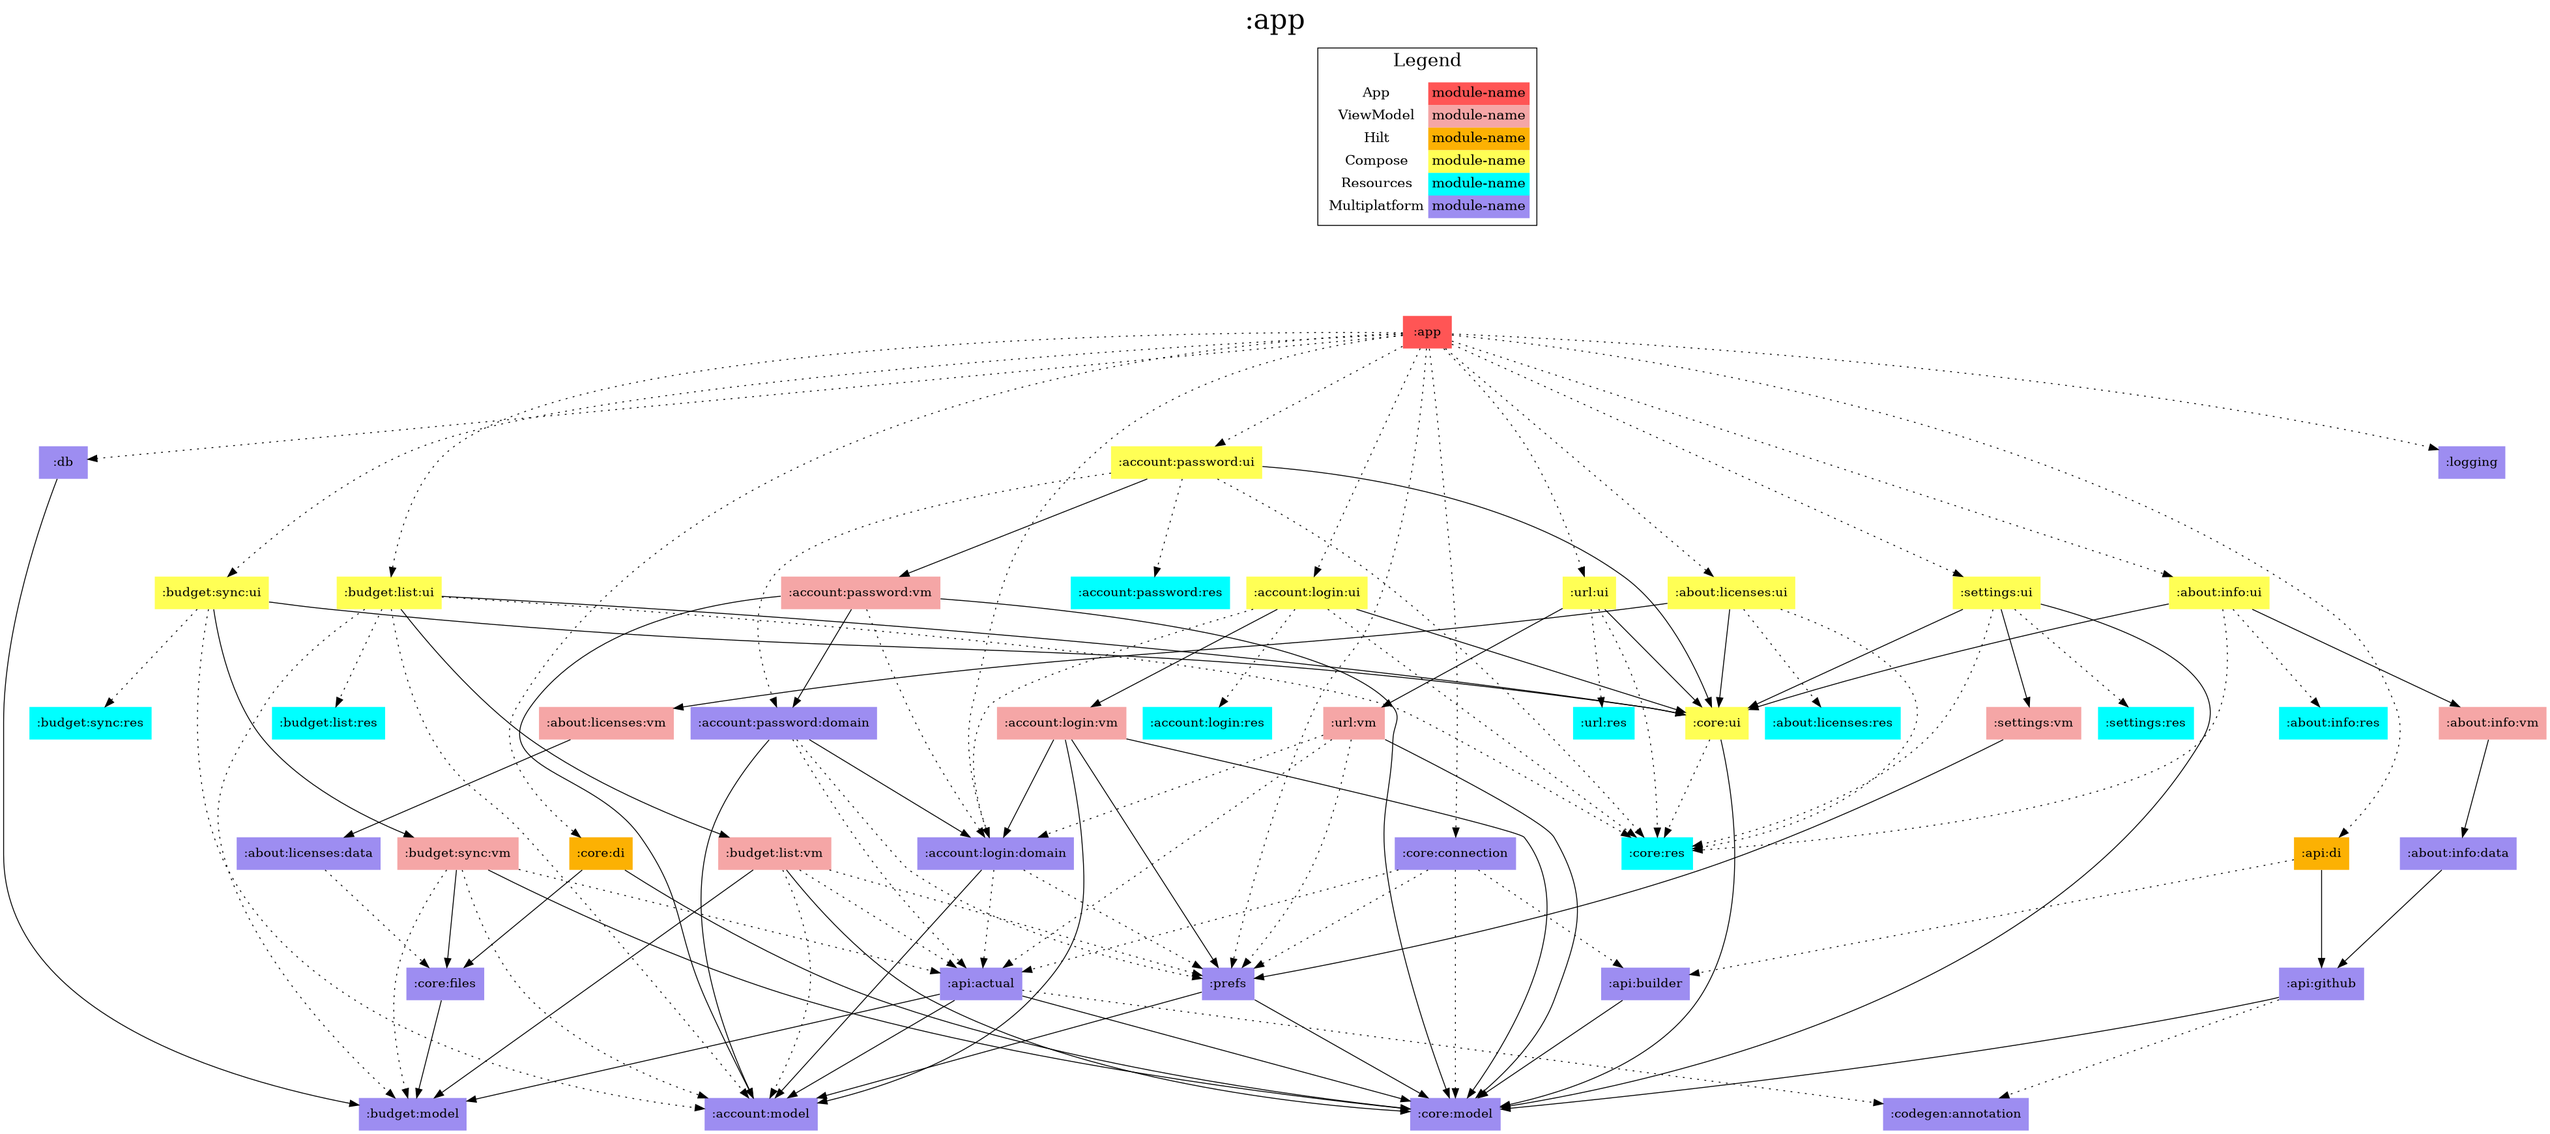
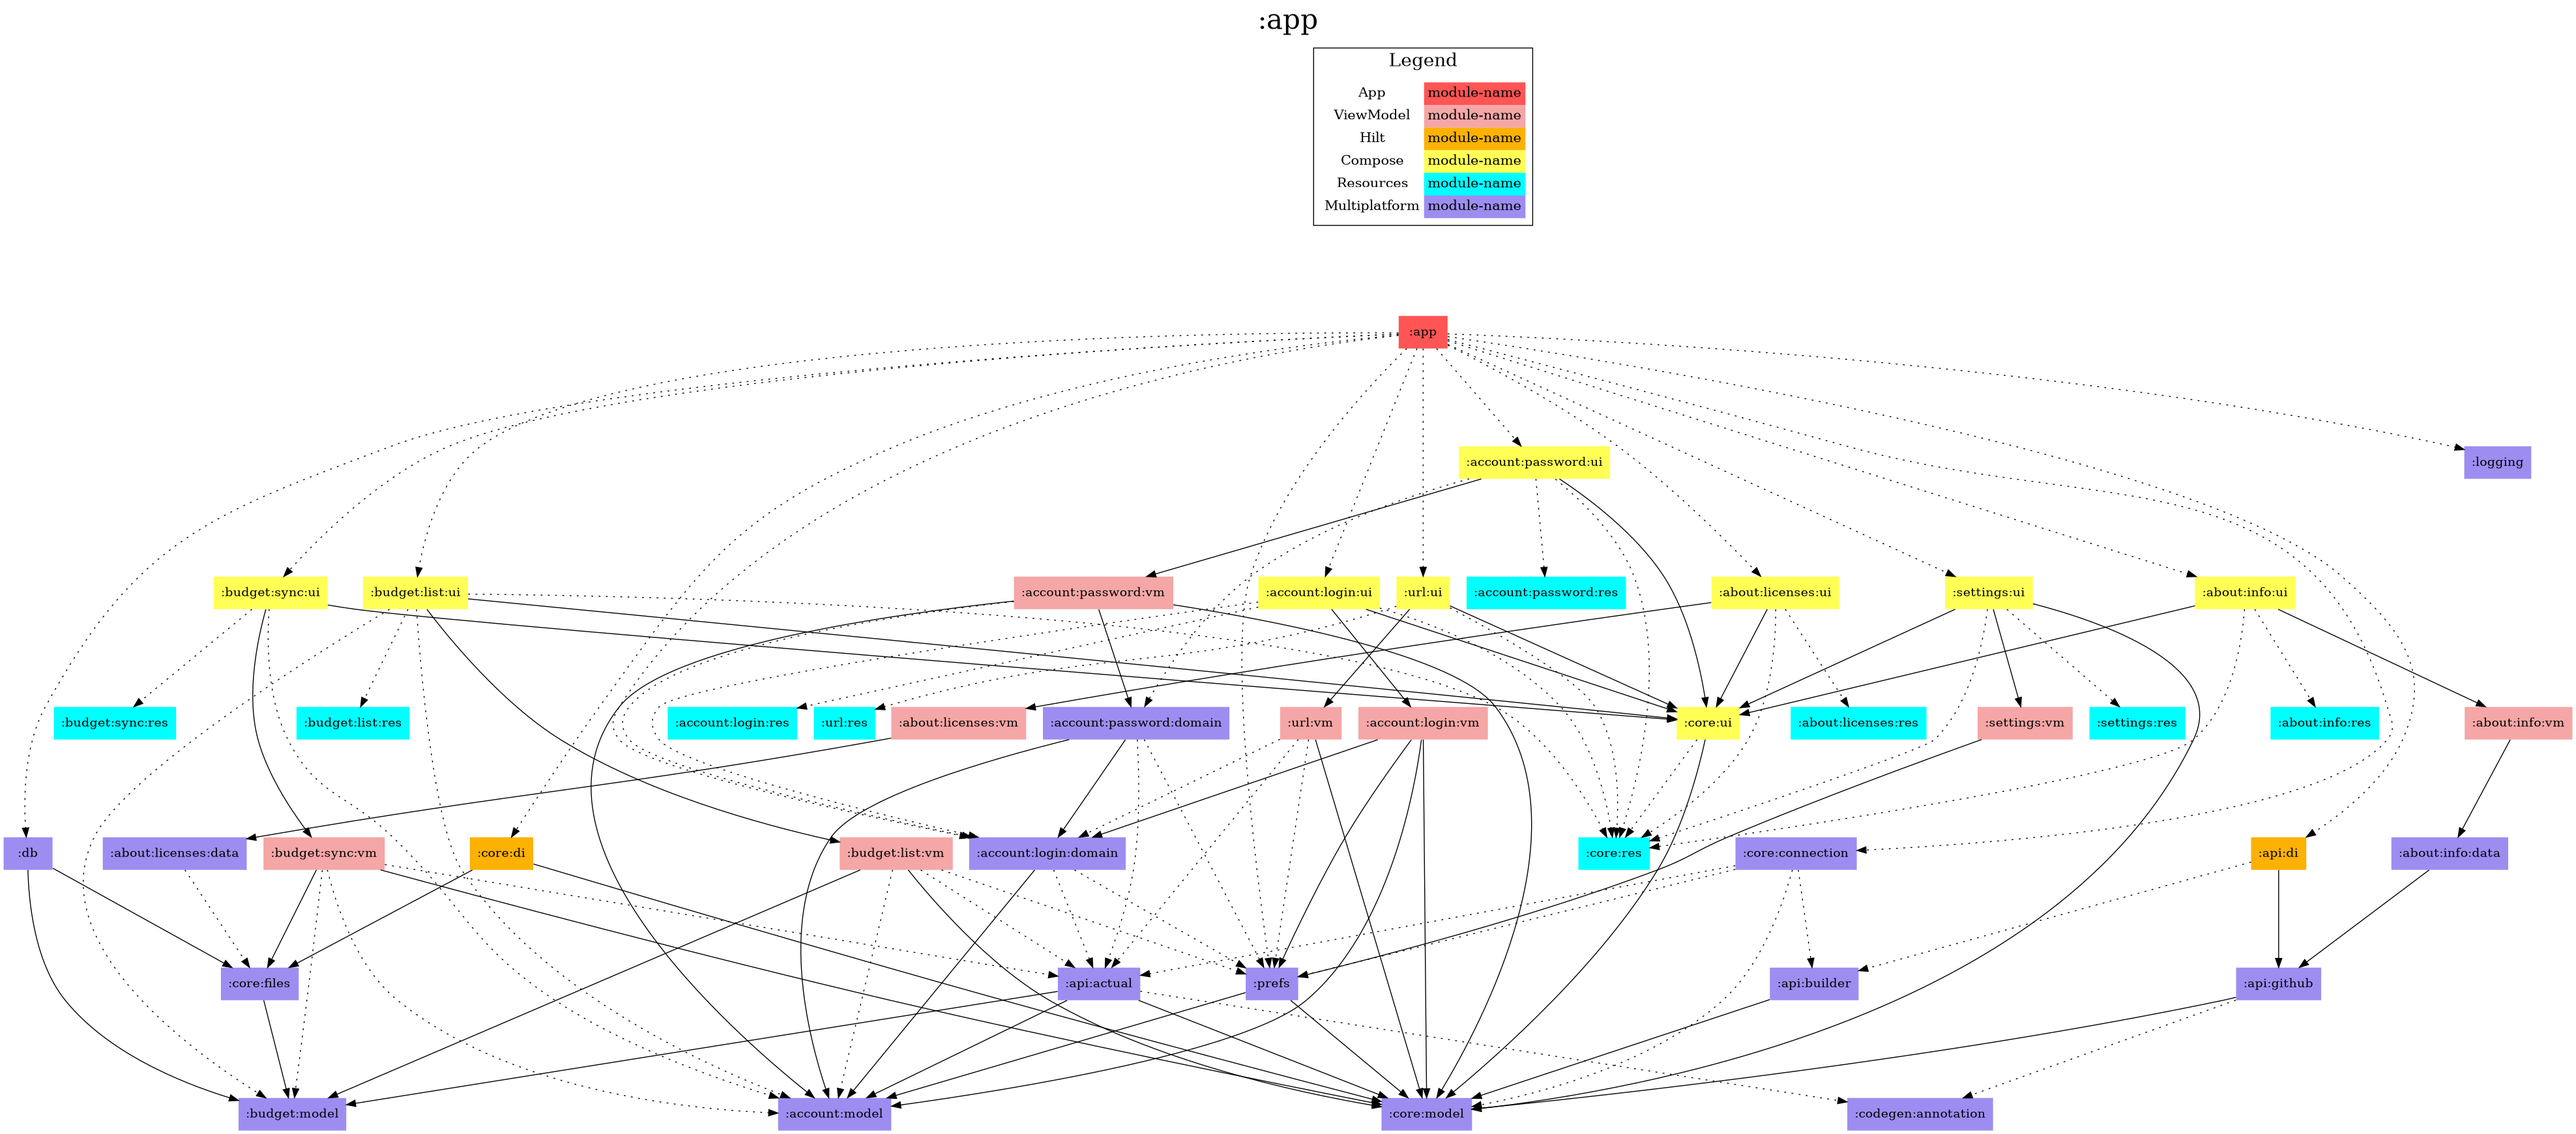
DatabaseDirectory -> BudgetFiles

diff --git a/modules/db/src/androidUnitTest/kotlin/actual/db/LoadExistingDatabaseFromFile.kt b/modules/db/src/androidUnitTest/kotlin/actual/db/LoadExistingDatabaseFromFile.kt
@@ -1,12 +1,15 @@
 package actual.db
 
 import actual.budget.model.BudgetId
-import actual.core.files.AndroidDatabaseDirectory
+import actual.core.files.AndroidBudgetFiles
+import actual.core.files.BudgetFiles
+import actual.core.files.database
 import alakazam.test.core.getResourceAsStream
 import android.content.Context
 import androidx.test.core.app.ApplicationProvider
 import app.cash.sqldelight.db.SqlDriver
 import kotlinx.coroutines.test.runTest
+import okio.FileSystem
 import org.junit.runner.RunWith
 import org.robolectric.RobolectricTestRunner
 import java.io.File
@@ -18,12 +21,16 @@ import kotlin.test.assertTrue
 
 @RunWith(RobolectricTestRunner::class)
 class LoadExistingDatabaseFromFile {
+  private lateinit var fileSystem: FileSystem
   private lateinit var context: Context
+  private lateinit var budgetFiles: BudgetFiles
   private lateinit var driver: SqlDriver
 
   @BeforeTest
   fun before() {
     context = ApplicationProvider.getApplicationContext()
+    fileSystem = FileSystem.SYSTEM
+    budgetFiles = AndroidBudgetFiles(context, fileSystem)
   }
 
   @AfterTest
@@ -34,7 +41,7 @@ class LoadExistingDatabaseFromFile {
   @Test
   fun `Opening existing file and reading table data`() = runTest {
     val file = loadDatabaseIntoFile()
-    driver = AndroidSqlDriverFactory(BUDGET_ID, context).create()
+    driver = AndroidSqlDriverFactory(BUDGET_ID, context, budgetFiles).create()
     val db = buildDatabase(driver)
 
     val viewHash = db.metaQueries.withResult {
@@ -48,14 +55,13 @@ class LoadExistingDatabaseFromFile {
   }
 
   private fun loadDatabaseIntoFile(): File {
-    val path = AndroidDatabaseDirectory(context).pathFor(BUDGET_ID)
-    val file = path.toFile()
+    val databaseFile = budgetFiles.database(BUDGET_ID, mkdirs = true).toFile()
     getResourceAsStream("test-db.sqlite").use { input ->
-      file.outputStream().use { output ->
+      databaseFile.outputStream().use { output ->
         input.copyTo(output)
       }
     }
-    return file
+    return databaseFile
   }
 
   private companion object {

diff --git a/modules/budget/sync/vm/src/test/kotlin/actual/budget/sync/vm/BudgetFileDownloaderTest.kt b/modules/budget/sync/vm/src/test/kotlin/actual/budget/sync/vm/BudgetFileDownloaderTest.kt
@@ -9,9 +9,11 @@ import actual.budget.model.BudgetId
 import actual.budget.sync.vm.DownloadState.Done
 import actual.budget.sync.vm.DownloadState.Failure
 import actual.budget.sync.vm.DownloadState.InProgress
+import actual.core.files.database
 import actual.core.model.Protocol
 import actual.core.model.ServerUrl
 import actual.core.model.bytes
+import actual.test.TestBudgetFiles
 import actual.test.emptyMockEngine
 import actual.test.enqueueResponse
 import actual.test.plusAssign
@@ -38,14 +40,14 @@ import kotlin.test.assertTrue
 
 class BudgetFileDownloaderTest {
   private lateinit var budgetFileDownloader: BudgetFileDownloader
-  private lateinit var databaseDirectory: TestDatabaseDirectory
+  private lateinit var budgetFiles: TestBudgetFiles
   private lateinit var apisStateHolder: ActualApisStateHolder
   private lateinit var mockEngine: MockEngine
   private lateinit var fileSystem: FakeFileSystem
 
   fun TestScope.before() {
     fileSystem = FakeFileSystem()
-    databaseDirectory = TestDatabaseDirectory(fileSystem)
+    budgetFiles = TestBudgetFiles(fileSystem)
     mockEngine = emptyMockEngine()
 
     val syncDownloadApi = SyncDownloadApi(
@@ -63,7 +65,7 @@ class BudgetFileDownloaderTest {
 
     budgetFileDownloader = BudgetFileDownloader(
       contexts = TestCoroutineContexts(unconfinedDispatcher),
-      databaseDirectory = databaseDirectory,
+      budgetFiles = budgetFiles,
       apisStateHolder = apisStateHolder,
     )
   }
@@ -111,7 +113,7 @@ class BudgetFileDownloaderTest {
       assertEquals(expected = dataSize, actual = finalState.total)
 
       // and it contains all our data, nothing more or less
-      val path = databaseDirectory.pathFor(BUDGET_ID)
+      val path = budgetFiles.database(BUDGET_ID)
       assertTrue(fileSystem.exists(path))
       val downloadedData = fileSystem.read(path) { readByteArray() }
       assertContentEquals(expected = data, actual = downloadedData)

diff --git a/modules/budget/sync/vm/src/main/kotlin/actual/budget/sync/vm/BudgetFileDownloader.kt b/modules/budget/sync/vm/src/main/kotlin/actual/budget/sync/vm/BudgetFileDownloader.kt
@@ -8,7 +8,8 @@ import actual.budget.model.BudgetId
 import actual.budget.sync.vm.DownloadState.Done
 import actual.budget.sync.vm.DownloadState.Failure
 import actual.budget.sync.vm.DownloadState.InProgress
-import actual.core.files.DatabaseDirectory
+import actual.core.files.BudgetFiles
+import actual.core.files.database
 import actual.core.model.Bytes.Companion.Zero
 import actual.core.model.bytes
 import alakazam.kotlin.core.CoroutineContexts
@@ -25,7 +26,7 @@ import javax.inject.Inject
 
 class BudgetFileDownloader @Inject internal constructor(
   private val contexts: CoroutineContexts,
-  private val databaseDirectory: DatabaseDirectory,
+  private val budgetFiles: BudgetFiles,
   private val apisStateHolder: ActualApisStateHolder,
 ) {
   fun download(token: LoginToken, budgetId: BudgetId): Flow<DownloadState> {
@@ -34,7 +35,7 @@ class BudgetFileDownloader @Inject internal constructor(
   }
 
   private suspend fun FlowCollector<DownloadState>.emitState(api: SyncDownloadApi, token: LoginToken, id: BudgetId) {
-    val destinationPath = databaseDirectory.pathFor(id)
+    val destinationPath = budgetFiles.database(id)
     try {
       emit(InProgress(Zero, Zero))
       api.downloadUserFile(token, id, destinationPath).collect { state ->

diff --git a/modules/db/src/androidMain/kotlin/actual/db/AndroidSqlDriverFactory.kt b/modules/db/src/androidMain/kotlin/actual/db/AndroidSqlDriverFactory.kt
@@ -1,6 +1,8 @@
 package actual.db
 
 import actual.budget.model.BudgetId
+import actual.core.files.BudgetFiles
+import actual.core.files.database
 import alakazam.kotlin.logging.Logger
 import android.content.Context
 import androidx.sqlite.db.SupportSQLiteDatabase
@@ -12,13 +14,14 @@ import app.cash.sqldelight.driver.android.AndroidSqliteDriver
 class AndroidSqlDriverFactory(
   private val id: BudgetId,
   private val context: Context,
+  private val budgetFiles: BudgetFiles,
 ) : SqlDriverFactory {
   override fun create(): AndroidSqliteDriver {
     val synchronousSchema = BudgetDatabase.Schema.synchronous()
     return AndroidSqliteDriver(
       schema = synchronousSchema,
       context = context,
-      name = "$id.sqlite",
+      name = budgetFiles.database(id, mkdirs = true).toString(),
       callback = AndroidCallback(synchronousSchema),
     )
   }
@@ -30,6 +33,7 @@ private class AndroidCallback(
   override fun onOpen(db: SupportSQLiteDatabase) {
     Logger.d("onOpen ${db.path}")
     super.onOpen(db)
+    @Suppress("KotlinConstantConditions") // BuildConfig is compile-time constant
     db.setForeignKeyConstraintsEnabled(DatabaseBuildConfig.FOREIGN_KEY_CONSTRAINTS)
   }
 

diff --git a/modules/core/files/src/androidMain/kotlin/actual/core/files/AndroidBudgetFiles.kt b/modules/core/files/src/androidMain/kotlin/actual/core/files/AndroidBudgetFiles.kt
@@ -1,0 +1,24 @@
+package actual.core.files
+
+import actual.budget.model.BudgetId
+import android.content.Context
+import okio.FileSystem
+import okio.Path
+import okio.Path.Companion.toOkioPath
+import javax.inject.Inject
+
+class AndroidBudgetFiles @Inject constructor(
+  context: Context,
+  private val fileSystem: FileSystem,
+) : BudgetFiles {
+  private val directoryPath = context
+    .getDatabasePath("unused")
+    .parentFile
+    ?.resolve("budgets")
+    ?.toOkioPath()
+    ?: error("Null budgets directory!")
+
+  override fun directory(id: BudgetId, mkdirs: Boolean): Path = directoryPath
+    .resolve(id.value)
+    .also { if (mkdirs) fileSystem.createDirectories(it) }
+}

diff --git a/build-logic/src/main/kotlin/actual/gradle/ConventionIdea.kt b/build-logic/src/main/kotlin/actual/gradle/ConventionIdea.kt
@@ -1,11 +1,21 @@
 package actual.gradle
 
-import blueprint.recipes.ideaBlueprint
 import org.gradle.api.Plugin
 import org.gradle.api.Project
+import org.gradle.kotlin.dsl.apply
+import org.gradle.kotlin.dsl.configure
+import org.gradle.plugins.ide.idea.IdeaPlugin
+import org.gradle.plugins.ide.idea.model.IdeaModel
 
 class ConventionIdea : Plugin<Project> {
   override fun apply(target: Project): Unit = with(target) {
-    ideaBlueprint()
+    pluginManager.apply(IdeaPlugin::class)
+
+    extensions.configure<IdeaModel> {
+      module {
+        isDownloadJavadoc = true
+        isDownloadSources = true
+      }
+    }
   }
 }

diff --git a/modules/test/db/src/androidMain/kotlin/actual/test/AndroidTestDriver.kt b/modules/test/db/src/androidMain/kotlin/actual/test/AndroidTestDriver.kt
@@ -1,11 +1,16 @@
 package actual.test
 
 import actual.budget.model.BudgetId
+import actual.core.files.AndroidBudgetFiles
+import actual.core.files.BudgetFiles
 import actual.db.AndroidSqlDriverFactory
 import android.content.Context
 import androidx.test.core.app.ApplicationProvider
+import okio.FileSystem
 
 fun androidDriverFactory(
   id: BudgetId,
+  fileSystem: FileSystem,
   context: Context = ApplicationProvider.getApplicationContext(),
-) = AndroidSqlDriverFactory(id, context)
+  budgetFiles: BudgetFiles = AndroidBudgetFiles(context, fileSystem)
+) = AndroidSqlDriverFactory(id, context, budgetFiles)

diff --git a/modules/core/di/src/main/kotlin/actual/core/di/FilesModule.kt b/modules/core/di/src/main/kotlin/actual/core/di/FilesModule.kt
@@ -1,14 +1,14 @@
 package actual.core.di
 
 import actual.core.files.AndroidAssets
-import actual.core.files.AndroidDatabaseDirectory
+import actual.core.files.AndroidBudgetFiles
 import actual.core.files.Assets
-import actual.core.files.DatabaseDirectory
+import actual.core.files.BudgetFiles
 import dagger.Binds
 import dagger.Module
 
 @Module
 interface FilesModule {
   @Binds fun assets(impl: AndroidAssets): Assets
-  @Binds fun databaseDir(impl: AndroidDatabaseDirectory): DatabaseDirectory
+  @Binds fun databaseDir(impl: AndroidBudgetFiles): BudgetFiles
 }

diff --git a/modules/test/files/src/commonMain/kotlin/actual/test/TestBudgetFiles.kt b/modules/test/files/src/commonMain/kotlin/actual/test/TestBudgetFiles.kt
@@ -1,0 +1,18 @@
+package actual.test
+
+import actual.budget.model.BudgetId
+import actual.core.files.BudgetFiles
+import okio.FileSystem
+import okio.Path
+import okio.fakefilesystem.FakeFileSystem
+
+class TestBudgetFiles(
+  private val fileSystem: FileSystem,
+  private val root: Path,
+) : BudgetFiles {
+  constructor(fileSystem: FakeFileSystem) : this(fileSystem, fileSystem.workingDirectory)
+
+  override fun directory(id: BudgetId, mkdirs: Boolean): Path = root
+    .resolve(id.value)
+    .also { if (mkdirs) fileSystem.createDirectories(it) }
+}

diff --git a/modules/core/files/src/commonMain/kotlin/actual/core/files/BudgetFiles.kt b/modules/core/files/src/commonMain/kotlin/actual/core/files/BudgetFiles.kt
@@ -1,0 +1,12 @@
+package actual.core.files
+
+import actual.budget.model.BudgetId
+import okio.Path
+
+interface BudgetFiles {
+  fun directory(id: BudgetId, mkdirs: Boolean = false): Path
+}
+
+fun BudgetFiles.database(id: BudgetId, mkdirs: Boolean = false): Path = directory(id, mkdirs).resolve("db.sqlite")
+
+fun BudgetFiles.metadata(id: BudgetId, mkdirs: Boolean = false): Path = directory(id, mkdirs).resolve("metadata.json")

diff --git a/modules/test/files/README.md b/modules/test/files/README.md
@@ -1,0 +1,3 @@
+# test:files
+
+![modules.png](modules.png)
